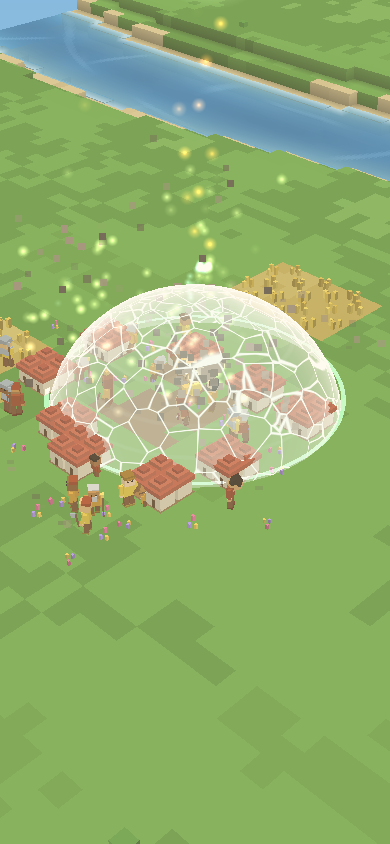
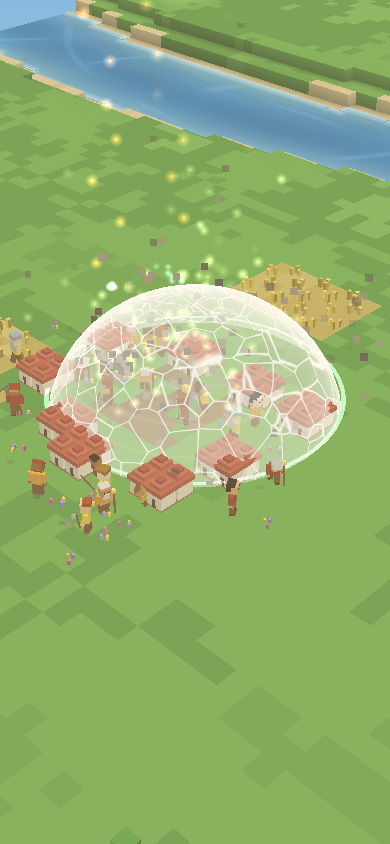
Shields: healing bodies pass, one flood never breaks a ward of its tier, held blows go through on a break
Found by the playtester: a healing rain cracked and broke wards; one minor flood
of lava broke a minor ward because its flowing lava counted as a second source;
a ward broken inside a meteor's land hook still held that hook's blows back.
Glass shards instead of sparks; cracks no longer veil the village.

Claude-Session: https://claude.ai/code/session_01NxvtApgN8VR6k4qTJJyBZW

diff --git a/src/sim/runtime.ts b/src/sim/runtime.ts
@@ -118,8 +118,10 @@ export class Runtime {
   static slowMs = 40;
   readonly visuals = new Visuals();
   // The ward a body was stopped on, while its land hook runs (4.7): what the
-  // impact does inside that ward is taken by the glass.
-  glass: Ward | null = null;
+  // impact does inside that ward is taken by the glass. `harm` counts what
+  // it tried to do there (a body that only heals does not wear the ward);
+  // `replay` holds the blows it held back, dealt if the impact breaks it.
+  glass: { ward: Ward; harm: number; replay: (() => void)[] } | null = null;
   private compiled = new Map<string, Compiled>();
   private casts: ActiveCast[] = [];
   private nextCast = 1;
@@ -655,9 +657,13 @@ export class Runtime {
   }
 
   // A body entering a ward's dome from outside: it stops where it was, on
-  // the glass, and lands there (its land hook runs, so a meteor's blast goes
-  // off on the dome, where the ward keeps it from what is inside). Unless the
-  // blow breaks the ward: then it goes on. True when the body was stopped.
+  // the glass. A body with a land hook lands there: the hook runs with every
+  // rule of the land holding inside the ward and no blow reaching anyone
+  // under it; if it tried to harm what is inside, the ward takes the blow,
+  // and a blow that breaks it goes through (the blows held back are dealt).
+  // A body that only heals passes its help and leaves the ward whole. A
+  // body with no land hook is a thrown thing: its blow is taken, or it
+  // breaks the ward and flies on. True when the body was stopped.
   private hitsWard(b: Body, hooks: BodyHooks | undefined, px: number, py: number, pz: number): boolean {
     const owner = hooks?.key ?? "";
     let hit: Ward | undefined;
@@ -665,8 +671,33 @@ export class Runtime {
     if (!hit) return false;
     const speed = Math.hypot(b.vx, b.vy, b.vz);
     const blow = (8 + 8 * Math.min(8, b.r)) * Math.min(2, 0.5 + speed / 40);
-    if (damageWard(this.world, hit, blow, hooks?.source ?? "land", hooks?.power ?? 1)) return false;
+    const source = hooks?.source ?? "land";
+    const power = hooks?.power ?? 1;
+    if (!hooks?.land && damageWard(this.world, hit, blow, source, power)) return false;
     [b.x, b.y, b.z] = [px, py, Math.max(0, pz)];
+    b.alive = false;
+    if (!hooks?.land) {
+      this.splash(b, hit);
+      return true;
+    }
+    const mask = this.world.wardMask;
+    forDisc(this.world, hit.x, hit.y, hit.r, (i) => (mask[i] = WARD_ALL));
+    const glass = { ward: hit, harm: 0, replay: [] as (() => void)[] };
+    this.glass = glass;
+    try {
+      this.run(hooks.key, hooks.name, () => hooks.land!(hooks.handle, hooks.api));
+    } finally {
+      this.glass = null;
+      rebuildMask(this.world);
+    }
+    if (!glass.harm) return true;
+    this.splash(b, hit);
+    if (damageWard(this.world, hit, blow, source, power)) for (const f of glass.replay) this.run(hooks.key, hooks.name, f);
+    return true;
+  }
+
+  // Sparks and a thump where a body hit the glass.
+  private splash(b: Body, hit: Ward): void {
     for (let n = 0; n < 12; n++)
       this.world.particles.add({
         x: b.x,
@@ -683,27 +714,6 @@ export class Runtime {
         drag: 1,
       });
     this.world.emit({ kind: "sound", name: "thump", size: Math.min(1, 0.2 + b.r / 6) });
-    if (hooks?.land) {
-      // Every rule of the land holds inside the struck ward while the impact
-      // goes off on it, whatever it is against, and no blow reaches anyone
-      // under it: the meteor burst on the glass.
-      const mask = this.world.wardMask;
-      forDisc(this.world, hit.x, hit.y, hit.r, (i) => (mask[i] = WARD_ALL));
-      this.glass = hit;
-      try {
-        this.run(
-          hooks.key,
-          hooks.name,
-          () => hooks.land!(hooks.handle, hooks.api),
-          () => (b.alive = false),
-        );
-      } finally {
-        this.glass = null;
-        rebuildMask(this.world);
-      }
-    }
-    b.alive = false;
-    return true;
   }
 
   // Custom material rules: each cell of a material with a tick gets a call,
@@ -1054,12 +1064,16 @@ export class CreatureHandle {
     return shieldedCreature(this.rt.world, this.raw) && !hostile(this.raw);
   }
   // Under the glass a body burst on (Runtime.glass): no blow gets through.
-  private underGlass() {
+  // Held back, and counted as harm the glass took.
+  private underGlass(blow: () => void) {
     const g = this.rt.glass;
-    return !!g && Math.hypot(this.raw.x - g.x, this.raw.y - g.y) <= g.r && !hostile(this.raw);
+    if (!g || Math.hypot(this.raw.x - g.ward.x, this.raw.y - g.ward.y) > g.ward.r || hostile(this.raw)) return false;
+    g.harm++;
+    g.replay.push(blow);
+    return true;
   }
   hurt(n: number) {
-    if (this.underGlass()) return;
+    if (this.underGlass(() => this.hurt(n))) return;
     const blow = num(n, 0, 1e6, 0) * (this.shielded() ? 0.15 : 1);
     this.raw.hp -= blow;
     // People remember what magic did to them (3.6).
@@ -1073,7 +1087,7 @@ export class CreatureHandle {
     this.raw.frozen = 0;
   }
   kill() {
-    if (this.underGlass()) return;
+    if (this.underGlass(() => this.kill())) return;
     if (this.shielded()) {
       this.raw.hp -= maxHp(this.raw) * 0.15;
       if (this.raw.hp > 0) return;
@@ -1345,13 +1359,15 @@ export class SpellApi {
   private fluidBlocked(i: number): boolean {
     const w = this.rt.world;
     if (!w.wards.length || !warded(w, i, WARD.fluids) || ownWard(w, i, this.req.key)) return false;
-    if (Math.random() < 0.02) wardHit(w, i, 1, this.source, this.power);
+    if (this.rt.glass) this.rt.glass.harm++;
+    else if (Math.random() < 0.02) wardHit(w, i, 1, this.source, this.power);
     return true;
   }
   private fireBlocked(i: number): boolean {
     const w = this.rt.world;
     if (!w.wards.length || !warded(w, i, WARD.fire)) return false;
-    if (Math.random() < 0.02) wardHit(w, i, 1, this.source, this.power);
+    if (this.rt.glass) this.rt.glass.harm++;
+    else if (Math.random() < 0.02) wardHit(w, i, 1, this.source, this.power);
     return true;
   }
   clear(x: number, y: number, layer: Layer) {
@@ -1410,9 +1426,16 @@ export class SpellApi {
     const radius = num(r, 0.5, 300, 4);
     const force = num(power, 0, 5, 1);
     // 4.7: a blast that reaches a ward against harm wears it down first;
-    // a strong one breaks it, and then the blast goes through.
+    // a strong one breaks it, and then the blast goes through. On the glass
+    // of a body's impact, the body's blow is what the ward takes, and the
+    // blast inside is held back with the body's other blows.
+    const g = this.rt.glass;
+    if (g && Math.hypot(g.ward.x - x, g.ward.y - y) < g.ward.r + radius) {
+      g.harm++;
+      g.replay.push(() => explode(this.rt.world, x, y, radius, force));
+    }
     for (const ward of [...this.rt.world.wards])
-      if (ward.against & WARD.harm && Math.hypot(ward.x - x, ward.y - y) < ward.r + radius)
+      if (ward !== g?.ward && ward.against & WARD.harm && Math.hypot(ward.x - x, ward.y - y) < ward.r + radius)
         damageWard(this.rt.world, ward, 15 * force * Math.sqrt(Math.min(radius, 40)), this.source, this.power);
     explode(this.rt.world, x, y, radius, force);
   }
@@ -1968,14 +1991,21 @@ export class SpellApi {
     for (let l = target + 1; l < target + 140; l++) if (w.decor.has(voxelKey(cx, cy, l))) target = l + 1;
     if (w.depth[i] > 0.05) target = Math.max(target, (w.height[i] + w.depth[i]) * 0.5);
     // Under a ward against lightning, the bolt ends on the dome.
-    const dome = warded(w, i, WARD.lightning) ? w.wards.find((d) => d.against & WARD.lightning && Math.hypot(d.x - x, d.y - y) <= d.r) : undefined;
+    // On the glass of a body's impact (4.7), a bolt of its land hook ends on that dome.
+    const glass = this.rt.glass;
+    const onGlass = glass && Math.hypot(glass.ward.x - x, glass.ward.y - y) <= glass.ward.r ? glass.ward : undefined;
+    if (glass && onGlass) {
+      glass.harm++;
+      glass.replay.push(() => this.lightning(x, y, o));
+    }
+    const dome = onGlass ?? (warded(w, i, WARD.lightning) ? w.wards.find((d) => d.against & WARD.lightning && Math.hypot(d.x - x, d.y - y) <= d.r) : undefined);
     if (dome) {
       const top = w.height[w.idx(Math.max(0, Math.min(w.w - 1, dome.x)), Math.max(0, Math.min(w.h - 1, dome.y)))] * 0.5;
       target = Math.max(target, top + Math.sqrt(Math.max(0, dome.r ** 2 - (x - dome.x) ** 2 - (y - dome.y) ** 2)) * DOME_SQUASH);
       dome.hit = w.time;
     }
     // 4.7: a bolt on the dome wears it down; one that breaks it strikes through.
-    const broke = !!dome && damageWard(w, dome, 20 * Math.max(0.5, power), this.source, this.power);
+    const broke = !!dome && !onGlass && damageWard(w, dome, 20 * Math.max(0.5, power), this.source, this.power);
     const path = (x0: number, y0: number, l0: number, x1: number, y1: number, l1: number, jag: number) => {
       const pts = [{ x: x0, y: y0, l: l0 }];
       const n = 10;

diff --git a/src/sim/wards.ts b/src/sim/wards.ts
@@ -65,6 +65,13 @@ export const TIER_POWER: Record<Tier, number> = { cantrip: 0.5, minor: 1, major:
 // of the same tier cracks a ward but never breaks it alone; two casts, or
 // one a tier stronger, do.
 export const ONE_SOURCE = 0.8;
+// What presses on a ward with no cast behind it (lava and fire flowing from
+// the land, creatures pushed out) never takes it below this share of its
+// health: the lava a flood spell poured is that spell's doing, and the spell
+// counts once (the playtest of 7 November: one minor flood broke a minor ward,
+// its flowing lava counted as a second source).
+export const PRESSURE_FLOOR = 0.2;
+const PRESSURE = new Set(["land", "creatures"]);
 
 // Damage is in units of a ward of the same power (100 breaks it). Returns
 // true when the ward broke.
@@ -73,7 +80,8 @@ export function damageWard(world: World, ward: Ward, amount: number, source: str
   ward.dealt ??= {};
   const cap = 100 * ONE_SOURCE * power;
   const before = ward.dealt[source] ?? 0;
-  const take = Math.max(0, Math.min(amount * power, cap - before));
+  const floor = PRESSURE.has(source) ? (ward.maxHp ?? 100) * PRESSURE_FLOOR : -Infinity;
+  const take = Math.max(0, Math.min(amount * power, cap - before, (ward.hp ?? 100) - floor));
   ward.dealt[source] = before + take;
   ward.hp = (ward.hp ?? 100) - take;
   ward.hit = world.time;
@@ -95,15 +103,16 @@ export function breakWard(world: World, ward: Ward): void {
       x: ward.x + Math.cos(a) * rr,
       y: ward.y + Math.sin(a) * rr,
       z: 1 + up * ward.r * DOME_SQUASH * 2,
-      vx: Math.cos(a) * (2 + Math.random() * 4),
-      vy: Math.sin(a) * (2 + Math.random() * 4),
-      vz: 2 + Math.random() * 4,
-      life: 0.8 + Math.random() * 0.8,
-      color: ward.color,
-      size: 0.8 + Math.random() * 0.8,
-      glow: true,
-      gravity: 14,
-      drag: 0.6,
+      // Shards of glass that fall about where the dome stood, not sparks.
+      vx: Math.cos(a) * (1 + Math.random() * 2.5),
+      vy: Math.sin(a) * (1 + Math.random() * 2.5),
+      vz: 1 + Math.random() * 3,
+      life: 0.9 + Math.random() * 0.6,
+      color: k % 3 ? 0xeef8ff : ward.color,
+      size: 1.1 + Math.random() * 1.1,
+      glow: k % 4 === 0,
+      gravity: 22,
+      drag: 0.4,
     });
   }
   world.emit({ kind: "sound", name: "crackle", size: Math.min(1, 0.4 + ward.r / 20) });

diff --git a/scripts/interactions-test.ts b/scripts/interactions-test.ts
@@ -346,6 +346,43 @@ export function interactionChecks(check: Check): void {
     check("a ward lets its own spell's bodies through", hurt(s), `hp ${s.person.hp.toFixed(0)} of ${s.hp0}`);
   }
   {
+    // Found by the playtest of 7 November: bodies that only heal wore wards
+    // down and broke them. A healing rain reaches the people under a ward
+    // and leaves it whole.
+    const s = scene("grass", "all", "minor");
+    const healRain = {
+      name: "healing rain",
+      code: `const spell = { *cast(w) { for (let k = 0; k < 8; k++) { w.body({ x: w.x + w.rand(-1, 1), y: w.y + w.rand(-1, 1), z: 30, vz: -20, gravity: 10, r: 1, look: "orb", color: "#7fe08a", land(b, w) { for (const c of w.creatures(b.x, b.y, 4)) c.heal(10); } }); yield 0.2; } yield 2; } };`,
+      seconds: 3.5,
+      reached: () => false,
+    };
+    run(s, healRain, "grand");
+    const ward = s.world.wards[0];
+    check(
+      "a healing rain of a stronger tier heals under a ward and leaves it whole",
+      !!ward && wardDamage(ward) === 0 && s.person.hp > s.hp0 + 20,
+      `${ward ? wardDamage(ward).toFixed(2) : "broken"}, hp ${s.person.hp.toFixed(0)} of ${s.hp0}`,
+    );
+  }
+  {
+    // Found by the same playtest: one minor flood of lava broke a minor
+    // ward, its flowing lava counted apart from the spell that poured it.
+    const s = scene("grass", "all", "minor");
+    const floods = {
+      name: "floods",
+      code: `const spell = { *cast(w) { for (let k = 0; k < 10; k++) { w.flood(w.x, w.y, 13, "lava", 2); yield 2; } } };`,
+      seconds: 22,
+      reached: () => false,
+    };
+    run(s, floods, "minor");
+    const ward = s.world.wards[0];
+    check(
+      "ten floods of lava from one spell of the ward's tier crack it and do not break it",
+      !!ward && wardDamage(ward) > 0.3 && !hurt(s),
+      `${ward ? wardDamage(ward).toFixed(2) : "broken"}, hp ${s.person.hp.toFixed(0)}`,
+    );
+  }
+  {
     // Raiders pushed out again and again crack a minor ward, never break it.
     const s = scene("grass", "creatures", "minor");
     const siege = {

diff --git a/src/sim/creatures.ts b/src/sim/creatures.ts
@@ -1268,8 +1268,10 @@ function keepOut(world: World): void {
         c.vx -= inward * ux;
         c.vy -= inward * uy;
       }
-      // Each push wears the ward a little (4.7): raiders crack a minor ward, never break it.
-      damageWard(world, ward, 2, "creatures");
+      // Each push wears the ward a little (4.7): a hostile pressing on it is
+      // pushed about every tick, so about 3 a second each; raiders crack a
+      // ward, never break it (wards.ts, PRESSURE_FLOOR).
+      damageWard(world, ward, 0.1, "creatures");
     }
   }
 }

diff --git a/src/sim/voxel/domes.ts b/src/sim/voxel/domes.ts
@@ -61,7 +61,7 @@ void main() {
   float rim = pow(edge, 2.6);
   float band = smoothstep(0.93, 1.0, sin(vHeight * 36.0 - time * 1.6) * 0.5 + 0.5) * 0.22 * (1.0 - crack);
   float c = crack > 0.0 ? cracks(vPos * 5.0) : 0.0;
-  float a = (0.05 + rim * 0.6 + band + hit * 0.35 + c * 0.75) * alpha;
+  float a = (0.05 + rim * 0.6 + band + hit * 0.35 + c * 0.5) * alpha;
   gl_FragColor = vec4(mix(color * (0.85 + rim * 0.5 + hit * 0.7), vec3(1.0), c * 0.6), a);
 }`;
 

diff --git a/docs/DESIGN.md b/docs/DESIGN.md
@@ -197,15 +197,15 @@ Frightened villagers within 14 cells run under the nearest ward instead of away 
 
 Before 4.7 a ward was a rule of cells only, so a moving body (`w.body`: a meteor, a fireball) flew through the dome and went off on the people under it (Ideas tab `#2`: "a shield from immortality let a meteor pass through"). Now (`src/sim/wards.ts`, `hitsWard` in `src/sim/runtime.ts`):
 
-1. **Bodies stop at the edge.** A body of another spell that enters the dome of a ward against harm or fire stops on the glass: its `land` hook runs there, every rule of the land holds inside that ward while it does, and no blow of that hook reaches anyone under it. The ward's own spell throws through its own dome.
+1. **Bodies stop at the edge.** A body of another spell that enters the dome of a ward against harm or fire stops on the glass. A body with a `land` hook lands there: every rule of the land holds inside that ward while the hook runs, and its blows on anyone under the dome (hurt, kill, a blast, a bolt) are held back. If it tried to harm what is inside, the ward takes the body's blow, and a blow that breaks it goes through: the held back blows are dealt. A body whose hook only heals passes its help and leaves the ward whole (a playtest found healing rains cracking and breaking wards). A body with no `land` hook is a thrown thing: the ward takes its blow, or breaks and lets it fly on. The ward's own spell throws through its own dome.
 2. **A ward has health**: 100 times its tier's power, which doubles each tier (`TIER_POWER`: cantrip 0.5, minor 1, major 2, grand 4, legendary 8, cosmic 16). A creature's or an artifact's ward counts as minor, and so do threats with no cast behind them (lava and fire of the land, raiders).
-3. **What it stops wears it down**: a body by its size and speed (8 + 8r, times 0.5 + speed / 40, at most twice), a blast by its force and radius (15 times force times the square root of the radius), a bolt (20 times its power), and a little for each sampled cell of fire or fluid stopped and each creature pushed out. Each times the attacker's tier power.
+3. **What it stops wears it down**: a body by its size and speed (8 + 8r, times 0.5 + speed / 40, at most twice), a blast by its force and radius (15 times force times the square root of the radius), a bolt (20 times its power), and a little for each sampled cell of fire or fluid stopped and each push of a hostile creature (about 0.3 a second for one pressing on it). Each times the attacker's tier power. What presses with no cast behind it (lava and fire flowing from the land, creatures) never takes a ward below 20% (`PRESSURE_FLOOR`): the lava a flood spell poured is that spell's doing and counts once, so one flood of the ward's tier cannot break it through its flowing lava (a playtest found ten floods from one minor spell breaking a minor ward).
 4. **One source takes at most 80% of a ward of its own power** (`ONE_SOURCE`). So a spell of the ward's tier cracks it and never breaks it alone, a second cast breaks it, a spell a tier stronger can break it, and raiders or pooled lava crack a minor ward without breaking it. The protection probe's threats, cast at the ward's tier, never break it, so Aegis still passes.
 5. **It shows**: cracks spread over the dome as it wears (a cell pattern in the dome's shader, `src/sim/voxel/domes.ts`), and it breaks with a burst of glass, a crackle and a flash. A blow that breaks it goes through: the meteor lands, the bolt strikes.
 
 ### The interaction table
 
-`npm test` runs `scripts/interactions-test.ts`: ten effects (fire, a flood of lava, lightning, a meteor, a fireball, a blast, a summon, a teleport, a heal, a freeze) against no ward, a ward against everything and a ward against each of the six things alone; fifteen effects on materials (grass, forest, a house, sand, water, rock); and the breaking point above. The table is data at the top of the file (`PROTECTED`, `MATERIALS`): a row changed on purpose is changed there, in the review's sight. A heal is never stopped: a ward keeps out harm, not help. Without the engine change of 4.7, the meteor and the fireball reached what every ward covered.
+`npm test` runs `scripts/interactions-test.ts`: ten effects (fire, a flood of lava, lightning, a meteor, a fireball, a blast, a summon, a teleport, a heal, a freeze) against no ward, a ward against everything and a ward against each of the six things alone; fifteen effects on materials (grass, forest, a house, sand, water, rock); the breaking point above, with a healing rain that must leave a ward whole and ten floods of lava that must not break one. The table is data at the top of the file (`PROTECTED`, `MATERIALS`): a row changed on purpose is changed there, in the review's sight. A heal is never stopped: a ward keeps out harm, not help. Without the engine change of 4.7, the meteor and the fireball reached what every ward covered.
 
 The view draws each ward as a clear dome (`src/sim/voxel/domes.ts`): one draw call, nearly invisible face on, a bright rim edge on, faint rising bands, a flash where something hits it, and a ring on the ground. `docs/visual-checks/ward-dome-under-attack.png` shows lava pooled around it, lightning on it and the village untouched and in plain sight; `shell-of-blocks-before-wards.png` shows what protection spells built before.
 
